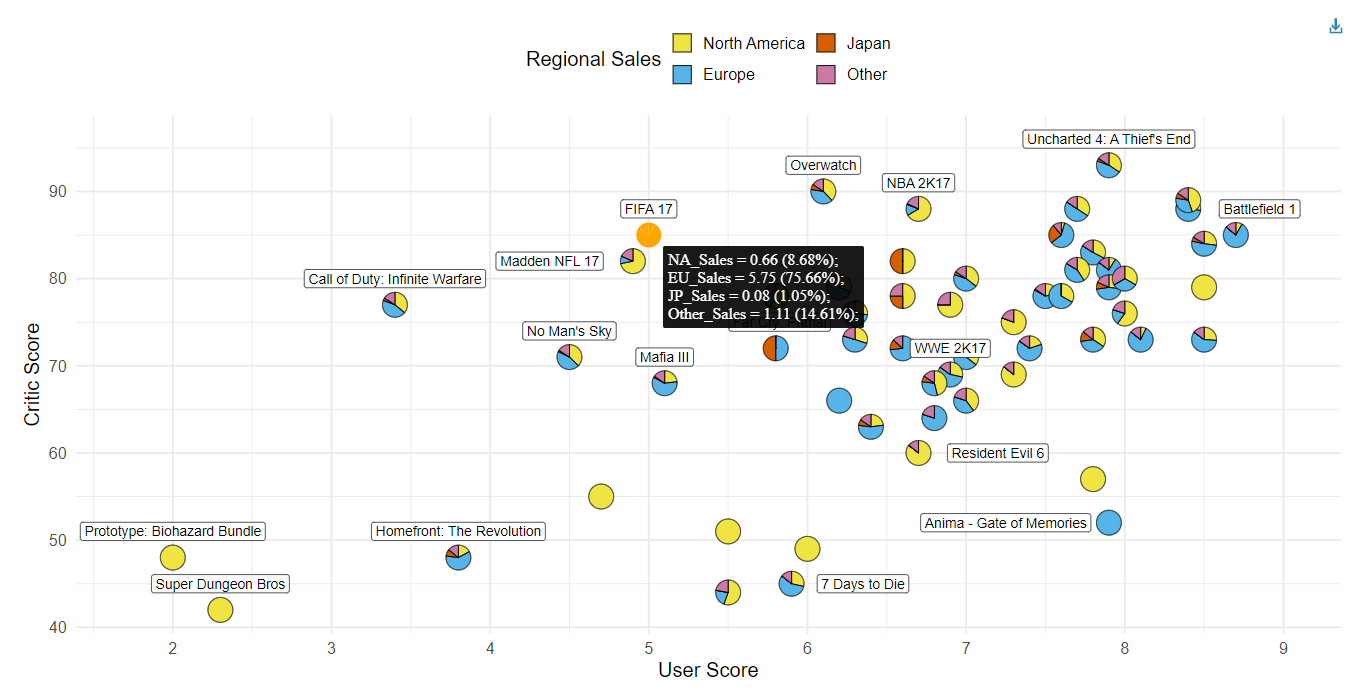
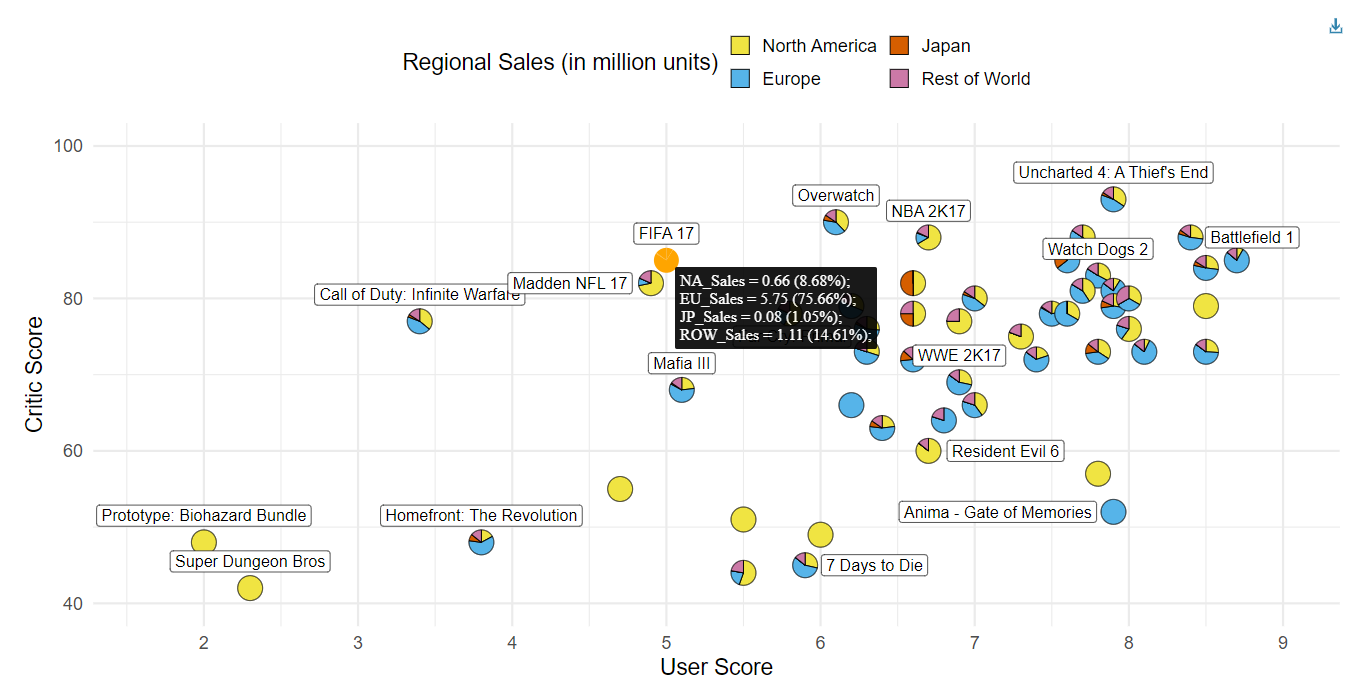
PieGlyph paper_v2

diff --git a/paper/paper.md b/paper/paper.md
@@ -1,11 +1,10 @@
 ---
-title: 'PieGlyph: An R package for creating axis invariant pie-glyphs in pie-chart scatterplots'
+title: "PieGlyph: An R package for creating axis invariant pie-glyphs in pie-chart scatterplots"
 tags:
   - R
   - visualisation
   - pie-charts
   - glyphs
-  - 
 authors:
   - name: Rishabh Vishwakarma
     orcid: 0000-0002-4847-3494
@@ -23,38 +22,38 @@ affiliations:
    index: 1
  - name: Department of Mathematics and Statistics, Maynooth University, Maynooth, Ireland
    index: 2
-date: 10 April 2024
+date: 24 April 2024
 bibliography: paper.bib
 ---
 
 # Summary
 
-Effective visualisations are one of the best tools for understanding and deriving insights from multidimensional data. However, the inability of human cognition to comprehend beyond three dimensions, posies a hindrance in the rapid recognition of patterns in high dimensional datasets. Over the past few decades a multitude of approaches have been suggested to visualise high dimensional structural information, employing either dimension reduction or visual encoding techniques [@liu2016visualizing]. Glyph based visualisations are one such technique where multiple data dimensions are encoded onto attributes of graphical entity [@chen2008multivariate]. A major benefit of glyphs is the ability to offer a compact and direct representation of data observations, thereby facilitating richer pattern recognition. 
+Effective visualisations are one of the best tools for understanding and deriving insights from multidimensional data. However, the inability of human cognition to comprehend beyond three dimensions, poses hindrance in the rapid recognition of patterns in high dimensions. Over the past few decades, a multitude of approaches have been suggested to visualise high dimensional structural information, employing either dimension reduction or visual encoding techniques [@liu2016visualizing]. Glyph based visualisations are one such technique where multiple data dimensions are encoded onto attributes of graphical entity [@chen2008multivariate]. A major benefit of glyphs is the ability to offer a compact and direct representation of data observations, thereby facilitating richer pattern recognition. 
 
-Pie glyphs are a glyph based visualisation approach that shows the different data dimensions as a pie-chart. The size of the sector (or slices) within the pie-chart corresponds to relative magnitude of the respective data dimensions. Pie-chart scatterplots can be created by replacing points in a traditional scatterplot with pie-chart glyphs to create a hybrid visualisation with the benefits of both techniques. The `PieGlyph` `R` [@RCore:2023] has been developed to enable users create these pie-chart scatterplots. \autoref{fig:fig1} shows the additional insights offered by a pie-chart scatterplot over a traditional scatterplot using data consisting of ratings and sales figures of select video games [@gamesdata]. While the scatterplot in Figure 1a can show the general positive relationship between user and critic scores for various games, the overlayed pie-glyphs in Figure 1b give additional information about the relative regional sales (in million units) for each game in North America, Europe, Japan, and Other territories. A quick glance at Figure 1b shows that North America and Europe account for the majority of sales for almost all games. It can also be seen that generally, games with a lower critic score don't sell across multiple regions (expected as users would refrain from purchasing a poorly reviewed game), while those with higher critic scores have sales in multiple regions.
+Pie glyphs are a glyph-based visualisation approach that show the different data dimensions as a pie-chart. Pie-charts are best suited for proportional data as the size of the sector (or slice) within the pie-chart corresponds to relative magnitude of the respective data attributes. Pie-chart scatterplots can be created by replacing points in a traditional scatterplot with pie-chart glyphs to create a hybrid visualisation with the benefits of both techniques. The `PieGlyph` `R` [@RCore:2023] has been developed to enable users create these pie-chart scatterplots. \autoref{fig:fig1} shows the additional insights offered by a pie-chart scatterplot over a traditional scatterplot using data consisting of ratings and sales figures of selected video games [@gamesdata]. While the scatterplot in Figure 1a can show the general positive relationship between user and critic scores for various games, the overlayed pie-glyphs in Figure 1b give additional information about the relative regional sales (in million units) for each game in North America, Europe, Japan, and Rest of the World. A quick glance at \autoref{fig:fig1}b shows that North America and Europe account for the majority of sales for almost all games. It can also be seen that generally, games with a lower critic score don't sell across multiple regions (expected as users would refrain from purchasing a poorly reviewed game), while those with higher critic scores have sales in multiple regions.
 
-![Figure 1. Scatterplot of user and critic scores for a select few games released in 2016. The data for this plot comes from @gamesdata. (a) and (b) both show the same data, however, points in (b) are overlayed with pie-chart glyphs showing the sales (in millions of units) of each game across four regions. \label{fig:fig1}](Figure 1.png){ width=80% }
+![Scatterplot of user and critic scores for a selected few games released in 2016. The data for this plot comes from @gamesdata. (a) and (b) both show the same data, however, points in (b) are overlayed with pie-chart glyphs showing the proportions of game unit sales across the four regions of North America, Europe, Japan, and Rest of the World. Certain games of interest (games with highest sales, worst reviews, best reviews, etc.) are labelled for better identification. \label{fig:fig1}](Figure 1.png){ width=80% }
 
 # Statement of need
 
-`PieGlyph` is developed under a Grammar of Graphics [@wilkinson2012grammar] paradigm using the `ggplot2` [@Wickham:2016] plotting framework. Thus, in addition to showing data attributes along the pie-chart slices, it is also possible to facet the visualisation (i.e., subset the data and show each subset in a different panel) based on additional data attributes or map them onto aesthetics like the size, colour, or style of the pie-charts to jointly visualise even more data dimensions and offer extended insights into multidimensional data. For example, Figure 1b could be facetted based on game genre, allowing for the visualization of user and critics scores across different genres whilst also showing regional preferences for each genre.
+`PieGlyph` is developed under a Grammar of Graphics [@wilkinson2012grammar] paradigm using the `ggplot2` [@Wickham:2016] plotting framework. Thus, in addition to showing data attributes along the pie-chart slices, it is also possible to facet the pie-chart scatterplot (i.e., subset the data and show each subset in a different panel) based on additional data attributes or map additional data attributes onto aesthetics like the size, colour, or style of the pie-charts to jointly visualise even more data dimensions and offer extended insights into multidimensional data. For example, \autoref{fig:fig1}b could be facetted based on game genre, allowing for the visualization of user and critics scores across different genres whilst also showing regional preferences for each genre.
 
-@cleveland1985graphical suggested that visualisations with length based visual encodings (bar-charts) are generally superior to angle based encodings (pie-charts) for comparing different attributes in data. However, there are situations in which pie-charts can be a better visualisation choice. Pie-chart scatterplots are one such case, where using pie-charts offers the following three benefits over bar-charts,
+@cleveland1985graphical demonstrated that visualisations with length based visual encodings (such as bar-charts) are generally superior to angle based encodings (pie-charts) for comparing different attributes in data. However, there are some situations in which pie-charts can be a better visualisation choice. Pie-chart scatterplots are one such case, where using pie-charts offers the following three benefits over bar-charts, 
 
-  * The circular shape of the pie-chart glyphs centered at the x-y location conveys additional visual information whilst maintaining the simplicity of a scatterplot. Using a bar-chart as a glyph in a scatterplot would complicate the plot and often be strenuous to look at.
-  * The total area occupied by a pie-chart glyph is constant irrespective of the number of attributes shown within it. A bar-chart glyph on the other hand could take up more space on the plot if there are too many attributes, further aggravating the problem of overplotting in a scatterplot.
-  * The length of the different bars in a bar-chart glyph could be conflated with the variable shown on the X or Y axes as both, the attributes within the glyph as well as the position of the glyph are visualised by a measure of length. A pie-chart glyph on the other hand measures the attributes within the glyph using angles, and the position of the glyph using length, thereby maintaining a clear separation between the two entities.
+  (i) The circular shape of the pie-chart glyphs centred at the x-y location conveys additional visual information whilst maintaining the simplicity of a scatterplot. Using a bar-chart as a glyph in a scatterplot could clutter the plot at times and render it more strenuous to look at (compared with a plot using pie-glyphs). 
+  (ii) The total area occupied by a pie-chart glyph is constant irrespective of the number of attributes shown within it. A bar-chart glyph on the other hand could take up more space on the plot if there are too many attributes (\autoref{fig:fig2}b), further aggravating the problem of overplotting in a scatterplot. 
+  (iii) The length of the different bars in a bar-chart glyph could be conflated with the variable shown on the X or Y axes as both, the attributes within the glyph as well as the position of the glyph are visualised by a measure of length. A pie-chart glyph on the other hand measures the attributes within the glyph using angles, and the position of the glyph using length, thereby maintaining a clear separation between the two entities.
   
-See Figure 2 for a visual representation of these issues.
+\autoref{fig:fig2} shows a visual representation of these issues. \autoref{fig:fig2}a uses stacked bar-charts while \autoref{fig:fig2}b uses dodged bar-charts as glyphs respectively. Issues (i) and (iii) are evident across both panels. Stacked bar-charts don't suffer from issue (ii) and would always occupy a constant area but it could sometimes be difficult to compare the relative values of categories (see the glyph for "Call of Duty: Infinity Warfare"). Dodged bar-charts do not suffer from this problem and it's easier to compare across the categories in a glyph, but glyph occupies a larger area on the plot as the number of attributes increase.
 
-![Figure 2. A scatterplot of user and critic scroes for select games from 2016, but the points are replaced with bar-chart glyphs showing the relative sales (in million units) for each game across four regions. (a) uses stacked bar-charts while (b) uses dodged bar-charts as glyphs. \label{fig:fig2}](Figure 2.png){ width=80% }
+![A scatterplot of user and critic scores for select games from 2016, but the points are replaced with bar-chart glyphs showing the relative sales (in million units) for each game across the four regions of North America, Europe, Japan, and Rest of the World. (a) uses stacked bar-charts while (b) uses dodged bar-charts as glyphs. Certain games of interest (games with highest sales, worst reviews, best reviews, etc.) are labelled for better identification. \label{fig:fig2}](Figure 2.png){ width=80% }
 
 <br>
-Other packages in `R` like `scatterpie` [@Yu:2024] and `ggforce` [@Pedersen:2022] offer functionality for creating pie-chart scatter plots. However, the pie-glyphs created using these functions are linked to the axes of the plot. Thus, the shape of the pie-glyphs changes with the aspect ratio of the plot and stretching the plot in either dimension results in the pie-glyphs getting squished into ellipses (see [vignette](https://rishvish.github.io/PieGlyph/articles/time-series-example.html) for an example). `PieGlyph` solves this problem by creating the pie-glyphs independent of the axes, thus they will always be circles with a fixed radii, even as the underlying coordinate system or aspect ratio of the plot changes.
+Other packages in `R` like `scatterpie` [@Yu:2024] and `ggforce` [@Pedersen:2022] offer functionality for creating pie-chart scatter plots. However, the pie-glyphs created using these functions are linked to the axes of the plot. Thus, the shape of the pie-glyphs changes with the aspect ratio of the plot and stretching the plot in either dimension results in the pie-glyphs getting squished into ellipses (see [vignette](https://rishvish.github.io/PieGlyph/articles/time-series-example.html) for an example). `PieGlyph` solves this problem by creating the pie-glyphs independent of the axes, thus they will always be circles with fixed radii, even as the underlying coordinate system or aspect ratio of the plot changes.
 
-A shortcoming of static pie-chart glyphs is only the relative proportion of different attributes can be visualised and not their raw counts. `PieGlyph` handles this by creating interactive pie-chart glyphs which, when hovered over, show a tooltip highlighting the raw count and percentage of each attribute shown in the pie-chart (Figure 3). This interactivity is incorporated by using the `ggiraph` [@Gohel:2024] package under the hood. 
+A shortcoming of static pie-chart glyphs is only the relative proportion of different attributes can be visualised and not their raw counts. `PieGlyph` handles this by creating interactive pie-chart glyphs which, when hovered over, show a tooltip highlighting the raw count and percentage of each attribute shown in the pie-chart (\autoref{fig:fig3}). This interactivity is incorporated by using the `ggiraph` [@Gohel:2024] package under the hood. 
 
-![Figure 3. A interactive pie-chart scatterplot showing user and critic scores for a select few games released in 2016 with pie-chart glyphs showing the relative sales (in million units) for each game across four regions. The game "FIFA 17" has been highlighted to view the raw counts (and percentages) of sales across each region. \label{fig:fig3}](Figure 3.png){ width=85% }
+![A interactive pie-chart scatterplot showing user and critic scores for a select few games released in 2016 with pie-chart glyphs showing the proportional sales (in million units) for each game across the four regions of North America, Europe, Japan, and Rest of the World. Hovering over a pie-glyph would show a tooltip containing information about the raw counts (and percentages) of sales across each region (The game "FIFA 17" has been highlighted). Certain games of interest (games with highest sales, worst reviews, best reviews, etc.) are labelled for better identification. \label{fig:fig3}](Figure 3.png){ width=85% }
 
 <br>
 `PieGlyph` is designed to be flexible with all features and extensions offered by `ggplot2` and `ggiraph`. Thus, all visualisations can be finely tailored to meet user specifications. It has already been used in multiple publications [@Moral:2023; @Finn:2024] to create informative visualisations showing multiple data dimensions on a static plot enabling researchers to identify patterns which weren't possible to capture using traditional visualisation techniques. 
